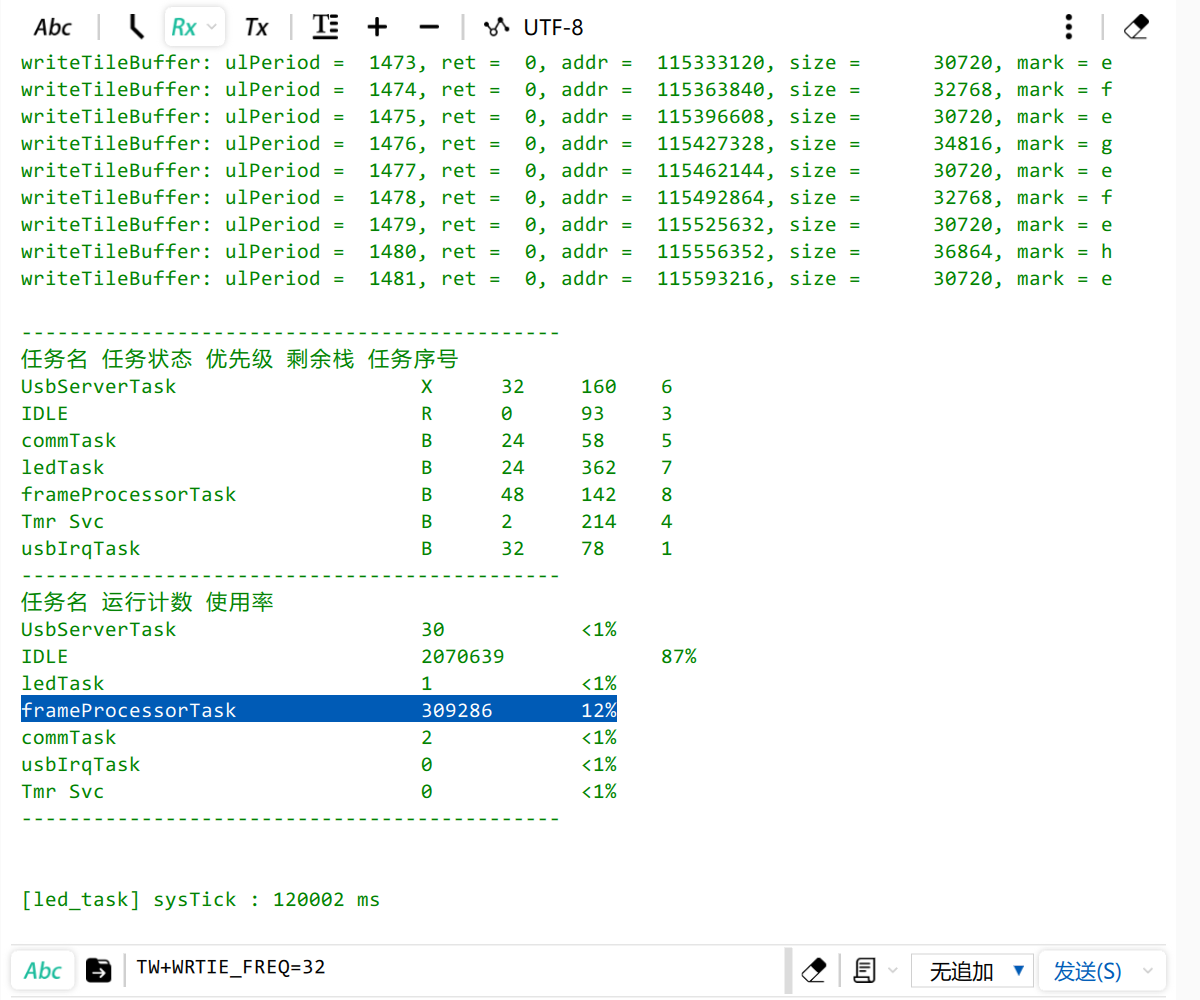
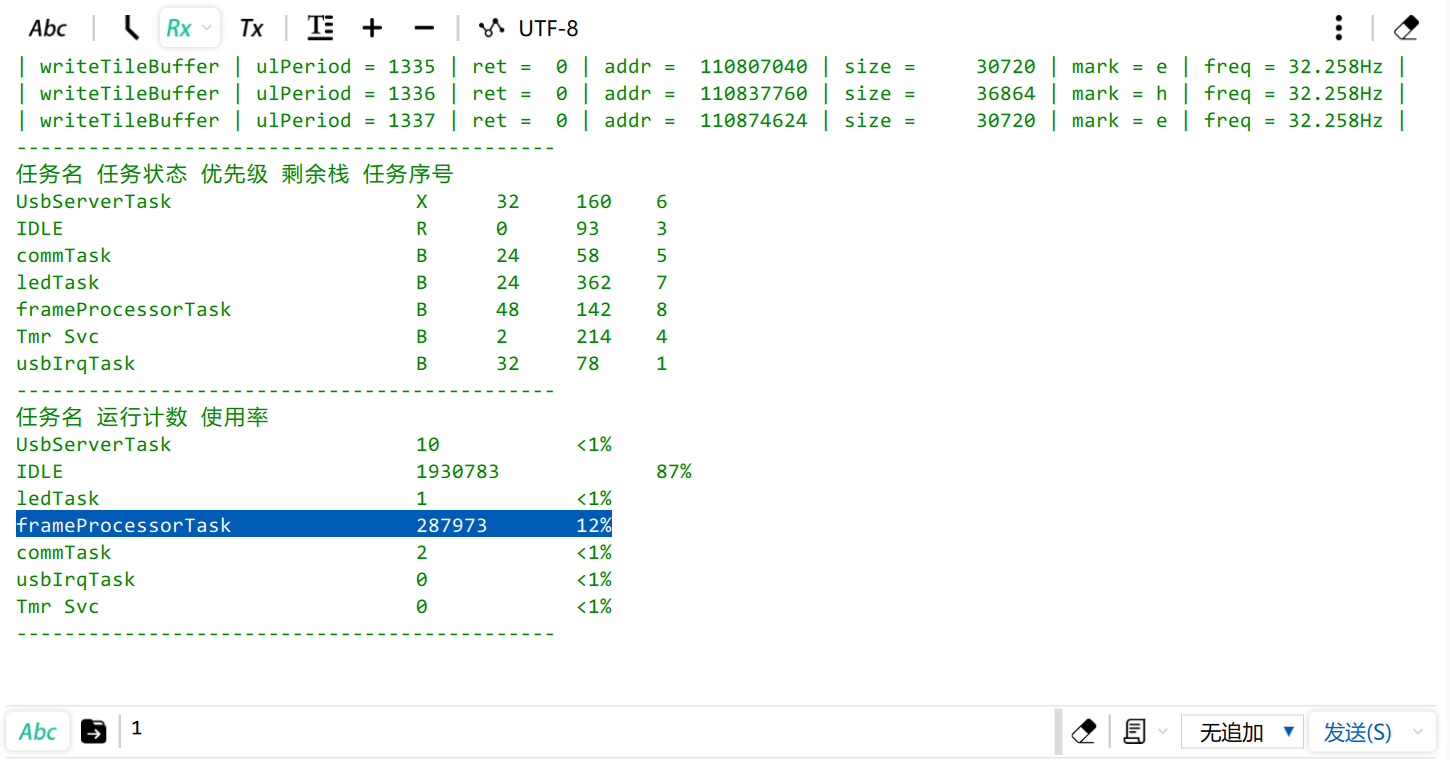
2023-03-23_22:16

diff --git a/H750VBT6_FATFS_R015_SDMMC_TF_01/Algorithms/TileWave/tile_wave.h b/H750VBT6_FATFS_R015_SDMMC_TF_01/Algorithms/TileWave/tile_wave.h
@@ -146,7 +146,7 @@ public:
 					.ulBufferSize = ulLayerTileSize * ulLayerTilesNumMax,
 					.ulTileBufferTxPeriod = ulLayerTileBufferSize / ulLayerTileSize
 			};
-			/* 链表正向遍历越往后层编号越大 */
+			/* 尾插入，链表正向遍历越往后层编号越大 */
 			xLayersList.push_back(xLayer);
 
 			ulLayersTileBufferSize += ulLayerTileBufferSize;
@@ -156,6 +156,7 @@ public:
 			ulLayerTileSize = ulLayerTileSize << 1;
 		}
 
+		// malloc未实现申请32字节对齐的内存
 //		ucpTxBuffer = malloc(ulIOSizeMax);
 //		ucpRxBuffer = malloc(5*ulIOSizeMin); //先随便给5个最小IO缓冲区
 
@@ -172,6 +173,12 @@ public:
 
 	void writeTileBuffer(uint8_t* pulData) {
 		uint32_t ret = 0;
+
+		static float ulRealWrittenFreq = 0;
+		static uint32_t ulWrittenCount = 0;
+		static uint32_t ulTickCountOld =  xTaskGetTickCount();
+		uint32_t ulTickCount;
+
 		++ulPeriod;	// = 1、2、3...2048;
 		xRit = xLayersList.rbegin();
 		uint32_t ulPeriodMax = (*xLayersList.begin()).ulTileBufferTxPeriod;
@@ -198,7 +205,7 @@ public:
 				/* 归零瓦片缓冲区的偏移地址 */
 				(*xRit).ulTileBufferOffset = 0;
 
-				// 将DRAM中的 非连续储存 的 瓦片缓冲区数据 复制 到 发送缓冲区 以变为连续储存的数据
+				// 将DRAM中的 非连续储存 的 瓦片缓冲区数据 复制 到 发送缓冲区 以变为连续储存的
 				memcpy((uint8_t*)ucpTxBuffer + ulTxBufferOffset, (*xRit).pucTileBuffer, (*xRit).ulTileBufferSize);
 				// 更新向缓冲区写入的起始地址偏移
 				ulTxBufferOffset += (*xRit).ulTileBufferSize;
@@ -207,14 +214,24 @@ public:
 			}
 			++xRit;
 		}
-		ulPeriod %= ulPeriodMax;
 
 		ret = write(ulTxBufferOffsetOld, ulTxBufferOffset, (uint8_t *)ucpTxBuffer);
-		printf("writeTileBuffer: ulPeriod = %5d, ret = %2d, addr = %10d, size = %10d, mark = %c\r\n",
-				ulPeriod, ret, ulTxBufferOffsetOld, ulTxBufferOffset, cWrittenMark);
 
+
+		/* 每5秒更新计算实际写入频率 */
+		++ulWrittenCount;
+		ulTickCount = xTaskGetTickCount();	/* 获取当前的系统时间 */
+		uint32_t ulTickOffest = ulTickCount - ulTickCountOld;
+		if(ulTickOffest >  1000) {
+			ulTickCountOld = ulTickCount;
+			ulRealWrittenFreq = (float)1000 / ((float)ulTickOffest / ulWrittenCount);
+			ulWrittenCount = 0;
+		}
+		printf("| writeTileBuffer | ulPeriod = %4d | ret = %2d | addr = %10d | size = %9d | mark = %c | freq = %3.3fHz |\r\n",
+				ulPeriod, ret, ulTxBufferOffsetOld, ulTxBufferOffset, cWrittenMark, ulRealWrittenFreq);
+
+		ulPeriod %= ulPeriodMax;
 		ulTxBufferOffsetOld += ulTxBufferOffset;
-
 	}
 
 	TileWave(Config_t &xConfig) {
@@ -258,9 +275,8 @@ public:
 		}
 	}
 	/* 测试动态内存API */
-	void vTestMallocFree()
+	static void vTestMallocFree()
 	{
-#if 0
 		void  *SRAM1_Addr0,  *SRAM1_Addr1, *SRAM1_Addr2;
 
 		/* 从SRAM1域的SRAM申请200字节空间，使用指针变量SRAM1_Addr0操作这些空间时不要超过200字节 */
@@ -293,7 +309,6 @@ public:
 		DRAM_SRAM1.free(SRAM1_Addr2);
 		printf("释放SRAM1域SRAM动态内存区申请的4111字节，当前共使用 = %d字节，当前剩余 = %d字节，历史最少可用 = %d字节\r\n",
 				DRAM_SRAM1.getMemUsed(), DRAM_SRAM1.getMemFree(), DRAM_SRAM1.getMemFreeMin());
-#endif
 	}
 
 	/** @brief  一次可以读取或写入的最小数据块，单位B

diff --git a/H750VBT6_FATFS_R015_SDMMC_TF_01/UserApp/protocols/ascii_protocol.cpp b/H750VBT6_FATFS_R015_SDMMC_TF_01/UserApp/protocols/ascii_protocol.cpp
@@ -35,6 +35,7 @@
 #include <string>
 #include "demo_sd_fatfs.h"
 #include "frame_processor.h"
+#include "tile_wave.h"
 
 /* Private typedef -----------------------------------------------------------*/
 /* Private define ------------------------------------------------------------*/
@@ -42,6 +43,8 @@
 /* Exported constants --------------------------------------------------------*/
 /* Private constants ---------------------------------------------------------*/
 /* Exported variables --------------------------------------------------------*/
+extern TileWave xTileWave;
+
 /* Private variables ---------------------------------------------------------*/
 /* Private function prototypes -----------------------------------------------*/
 /* Function implementations --------------------------------------------------*/
@@ -58,7 +61,7 @@ void OnAsciiCmd(const char* _cmd, size_t _len, StreamSink &_responseChannel)
     uint8_t argNum;
 
     // Check incoming packet type
-    if (_cmd[0] == 'F')
+    if (_cmd[0] == 'P')
     {
         float value;
         argNum = sscanf(&_cmd[1], "%f", &value);
@@ -76,6 +79,7 @@ void OnAsciiCmd(const char* _cmd, size_t _len, StreamSink &_responseChannel)
         	RespondTaskStackUsageInWords(_responseChannel, usbServerTaskHandle, usbServerTaskStackSize / 4);
         	RespondTaskStackUsageInWords(_responseChannel, usbIrqTaskHandle, 	UsbIrqTaskStackSize / 4);
         	RespondTaskStackUsageInWords(_responseChannel, ledTaskHandle, 		ledTaskStackSize / 4);
+        	RespondTaskStackUsageInWords(_responseChannel, frameProcessorTaskHandle, frameProcessorTaskStackSize / 4);
         }
         else if (s.find("CPU_INFO") != std::string::npos)
         {
@@ -99,13 +103,23 @@ void OnAsciiCmd(const char* _cmd, size_t _len, StreamSink &_responseChannel)
     else if(_cmd[0] == 'T' && _cmd[1] == 'W' && _cmd[2] == '+')
     {
         std::string s(_cmd);
-        if (s.find("START_WRITE") != std::string::npos)
+        if(s.find("LAYER_INFO") != std::string::npos)
+        {
+        	xTileWave.vPrintLayerInfo();
+        }
+        else if(s.find("TEST_DRAM") != std::string::npos)
+        {
+        	TileWave::vTestMallocFree();
+        }
+        else if (s.find("START_WRITE") != std::string::npos)
         {
         	frame_writeTileBuffer = 1;
+        	Respond(_responseChannel, false, "波形文件: 开始写入");
         }
         else if (s.find("STOP_WRITE") != std::string::npos)
         {
         	frame_writeTileBuffer = 0;
+        	Respond(_responseChannel, false, "波形文件: 停止写入");
         }
         else if (s.find("RESET_WAVE_FILE") != std::string::npos)
         {
@@ -116,11 +130,13 @@ void OnAsciiCmd(const char* _cmd, size_t _len, StreamSink &_responseChannel)
             int value;
             sscanf(&_cmd[14], "%u", &value);
             frame_freq = value;
-            Respond(_responseChannel, false, "Set frame_freq = : %u Hz", value);
+            Respond(_responseChannel, false, "波形文件: 写入频率 %uHz", value);
         }
     }
-
-    DemoFatFS(_cmd[0]);
+    else if(_cmd[0] == 'F' && _cmd[1] == 'S' && _cmd[2] == '+')
+    {
+    	DemoFatFS(_cmd[3]);
+    }
     /*---------------------------- ↑ Add Your CMDs Here ↑ -----------------------------*/
 }
 

diff --git a/H750VBT6_FATFS_R015_SDMMC_TF_01/UserApp/freertos_inc.h b/H750VBT6_FATFS_R015_SDMMC_TF_01/UserApp/freertos_inc.h
@@ -51,7 +51,8 @@ extern osThreadId_t usbServerTaskHandle;
 /*---------------------------------- User Tasks -------------------------------*/
 extern const uint32_t ledTaskStackSize;
 extern osThreadId_t ledTaskHandle;
-
+extern const uint32_t frameProcessorTaskStackSize;
+extern osThreadId_t frameProcessorTaskHandle;
 /*------------- xxxK (used) / xxxK (for FreeRTOS) / xxxK (total) --------------*/
 
 #ifdef __cplusplus

diff --git a/H750VBT6_FATFS_R015_SDMMC_TF_01/UserApp/frame_processor.cpp b/H750VBT6_FATFS_R015_SDMMC_TF_01/UserApp/frame_processor.cpp
@@ -76,7 +76,7 @@ static void frameProcessorTask(void* argument)
 
 	TickType_t xLastWakeTime;
 	TickType_t xTaskPeriod;
-	xLastWakeTime = xTaskGetTickCount();            /* 获取当前的系统时间 */
+	xLastWakeTime = xTaskGetTickCount();	/* 获取当前的系统时间 */
 	/* 帧缓冲区全部归'.'*/
 	memset(frame, '.', sizeof(frame));
 	for (;;)

diff --git a/H750VBT6_FATFS_R015_SDMMC_TF_01/README.md b/H750VBT6_FATFS_R015_SDMMC_TF_01/README.md
@@ -11,6 +11,11 @@
 - 开发环境：STM32CubeIDE v1.11.2 + STM32CubeMX v6.6
 - 包版本：STM32CubeH7 V1.11.0 / 04-Nov-2022
 - 主RAM：DTCM
+- FATFS：R0.15
+
+## USB命令
+
+USB命令的JSON文件在 VOFA+ 文件夹内，可导入伏特加上位机方便测试
 
 ## FATFS R0.15 适配 CubeMX R0.12C
 
@@ -87,7 +92,7 @@ int ff_mutex_create (	/* Returns 1:Function succeeded or 0:Could not create the 
 
 ### 适配 ffunicode.c 
 
-ff15 中的 ffunicode 与 cubemx自动生成的  Middlewares/Third_Party/FatFs/option/cc936.c 中重复定义，在过滤器中排除 cc936.c 即可
+ff15 中的 ffunicode.c中的数据 与 cubemx自动生成的  Middlewares/Third_Party/FatFs/option/cc936.c（GBK编码） 中存在重复定义，在过滤器中排除 cc936.c 即可。实测这样配置后，USB可以正常打印 FATFS 解析文件名和目录名的 GBK 编码的中文字符
 
 ### Path 过滤器的配置
 
@@ -99,11 +104,55 @@ ff15 中的 ffunicode 与 cubemx自动生成的  Middlewares/Third_Party/FatFs/o
 
 ## 测试
 
+### 各层缓冲区参数
+
+| 层编号 | 瓦片大小 | 瓦片缓冲区大小 | 瓦片缓冲区地址 | 缓冲区大小 | 缓冲区发送周期 | DRAM 当前共使用 | DRAM 当前剩余 | DRAM 历史最少可用 |
+| ------ | -------- | -------------- | -------------- | ---------- | -------------- | --------------- | ------------- | ----------------- |
+| 0      | 1        | 2048           | 0x30000010     | 2048       | 2048           | 2072            | 129000        | 129000            |
+| 1      | 2        | 2048           | 0x30000818     | 4096       | 1024           | 4128            | 126944        | 126944            |
+| 2      | 4        | 2048           | 0x30001020     | 8192       | 512            | 6184            | 124888        | 124888            |
+| 3      | 8        | 2048           | 0x30001828     | 16384      | 256            | 8240            | 122832        | 122832            |
+| 4      | 16       | 2048           | 0x30002030     | 32768      | 128            | 10296           | 120776        | 120776            |
+| 5      | 32       | 2048           | 0x30002838     | 65536      | 64             | 12352           | 118720        | 118720            |
+| 6      | 64       | 2048           | 0x30003040     | 131072     | 32             | 14408           | 116664        | 116664            |
+| 7      | 128      | 2048           | 0x30003848     | 262144     | 16             | 16464           | 114608        | 114608            |
+| 8      | 256      | 2048           | 0x30004050     | 524288     | 8              | 18520           | 112552        | 112552            |
+| 9      | 512      | 2048           | 0x30004858     | 1048576    | 4              | 20576           | 110496        | 110496            |
+| 10     | 1024     | 2048           | 0x30005060     | 2097152    | 2              | 22632           | 108440        | 108440            |
+| 11     | 2048     | 2048           | 0x30005868     | 4194304    | 1              | 24688           | 106384        | 106384            |
+| 12     | 4096     | 4096           | 0x30006070     | 8388608    | 1              | 28792           | 102280        | 102280            |
+| 13     | 8192     | 8192           | 0x30007078     | 16777216   | 1              | 36992           | 94080         | 94080             |
+| 14     | 16384    | 16384          | 0x30009080     | 33554432   | 1              | 53384           | 77688         | 77688             |
+
+### 不同 Block 大小下的读写速度
+
+| IO SIZE | 写速度   | 写耗时  | 读速度    | 读耗时 | 测试文件名称 | 测试文件大小 | 校验文件数据 |
+| ------- | -------- | ------- | --------- | ------ | ------------ | ------------ | ------------ |
+| 512B    | 333KB/S  | 24579ms | 1462KB/S  | 5603ms | Speed00.txt  | 8192KB       | N/A          |
+| 1KB     | 610KB/S  | 13419ms | 2539KB/S  | 3226ms | Speed01.txt  | 8192KB       | N/A          |
+| 2KB     | 1197KB/S | 6840ms  | 4168KB/S  | 1965ms | Speed02.txt  | 8192KB       | N/A          |
+| 4KB     | 2771KB/S | 2956ms  | 6638KB/S  | 1234ms | Speed03.txt  | 8192KB       | N/A          |
+| 8KB     | 3423KB/S | 2393ms  | 8551KB/S  | 958ms  | Speed04.txt  | 8192KB       | N/A          |
+| 16KB    | 8650KB/S | 947ms   | 9787KB/S  | 837ms  | Speed05.txt  | 8192KB       | N/A          |
+| 32KB    | 8982KB/S | 912ms   | 10502KB/S | 780ms  | Speed06.txt  | 8192KB       | N/A          |
+| 64KB    | 7699KB/S | 1064ms  | 10556KB/S | 776ms  | Speed07.txt  | 8192KB       | N/A          |
+
 ### CPU利用率
 
 向层缓冲区不同写入频率下的CPU利用率：
 
-| 32Hz 12%                                                     | 200Hz 41%                                                    |
+| 32Hz 12%                                                     | 100Hz 40%                                                    |
 | ------------------------------------------------------------ | ------------------------------------------------------------ |
-| ![32Hz写110MB_CPU利用率_12_percent](Images/32Hz写110MB_CPU利用率_12_percent.png) | ![200Hz写110MB_CPU利用率_41_percent](Images/200Hz写110MB_CPU利用率_41_percent.png) |
+| ![32Hz写110MB_CPU利用率_12_percent](Images/32Hz写110MB_CPU利用率_12_percent.png) | ![100Hz写110MB_CPU利用率_40_percent](Images/100Hz写110MB_CPU利用率_40_percent.png) |
 
+### 波形文件写入频率
+
+> *已有文件：表示已有写入 100MB 左右的文件，当前是覆盖写入，使用前一次写入文件的 CLMT，这样 f_lseek() 的执行会更快
+
+| 备注      | 设置频率（Hz） | 实际频率（Hz） | 实际频率波动（Hz） | CPU 占用率（%） | 吞吐量（KB/s） | 备注                    |
+| --------- | -------------- | -------------- | ------------------ | --------------- | -------------- | ----------------------- |
+| 已有文件* | 200            | 165            | 105 - 167          | 41              | N/A            | 很不稳定                |
+| 已有文件* | 100            | 100            | 97 - 104           | 40              | 3217.5         | 很稳定，CPU占用率过高   |
+| 新建文件  | 200            | 94 - 110       | 81- 126            | 40              | N/A            | 很不稳定                |
+| 新建文件  | 100            | 100            | 74 -121            | 40              | N/A            | 不太稳定，CPU占用率过高 |
+| 新建文件  | 32             | 32.2           | 32.0- 32.5         | 12              | 1029.6         | 有在项目中应用的可能    |
